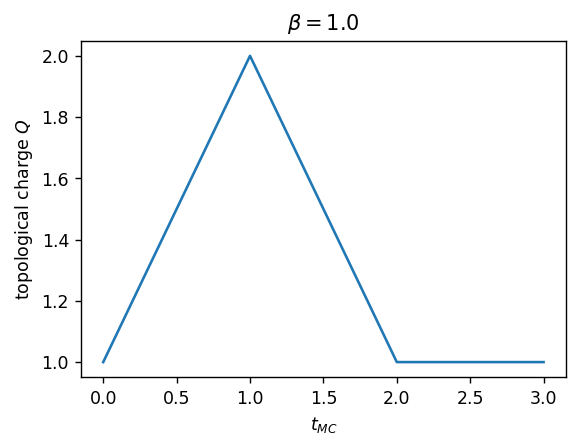
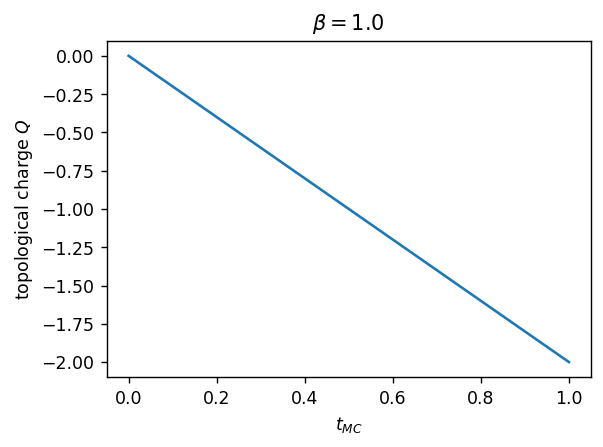
Implemented Adaptive Mixture for single batch

diff --git a/neumc/src/neumc/utils/mixture.py b/neumc/src/neumc/utils/mixture.py
@@ -8,7 +8,7 @@ import neumc.nf.prior, neumc.nf.flow, neumc.nf.flow_abc
 from torch.distributions import Categorical
 
 """
-Annotations: each samples corresponds to two LxL matrices: notice that the first one contains 
+Personal note: each sample corresponds to two LxL matrices: the first one contains 
 the horizontal links and the second one contains the vertical links. The links variables are 
 saved without taking account of the direction, as a consqeuence to compute the plaquette, the signs
 have to be considered.
@@ -19,31 +19,78 @@ def target_density(x, action) -> torch.Tensor:
     return torch.exp(- action(x))
 
 class LinksTransformation:
-    def __init__(self, config: tuple[torch.Tensor, torch.Tensor] = None, device = 'cpu'):
-        self.config = config
+    def __init__(self, shape =(8,8), device = 'cpu'):
         self.device = device
+        self.shape = shape
     def apply(self) -> tuple[torch.Tensor, torch.Tensor]:
         pass
 
-class RandomLinksTransformation(LinksTransformation):
+    def __call__(self, config):
+        return self.apply(config)
+
+class RandomLinksTransformation(LinksTransformation): #! Work in progress; 
     """Given a certain configuration (i.e. two LxL matrices), a random matrix 
     is sampled and added to the first matrix; then its transpose is added to 
     the second matrix. In such a way the plaquette is preserved.
     """
-    def __init__(self, config: tuple[torch.Tensor, torch.Tensor], device = 'cpu'):
-        super().__init__(config, device)
+    def __init__(self, shape, device = 'cpu'):
+        super().__init__(shape, device)
 
-    def transformation_matrices(self) -> tuple[torch.Tensor, torch.Tensor]:
-        m1 = torch.rand(self.config[0].shape, device=self.device) * 2 * math.pi
-        m2 = m1.transpose()
-        return m1, m2 
+    def transformation_matrices(self) -> torch.Tensor:
+        m1 = torch.rand(self.shape, device=self.device) * 2 * math.pi
+        m2 = m1.transpose(-2, -1)  # usa -2, -1 per gestire batch
+        print("random:", m1, m2)
+        return torch.stack((m1, m2))
 
-    def apply(self) -> tuple[torch.Tensor, torch.Tensor]:
-        assert len(self.config) == 2, "config must be a tuple of two tensors (cos_phi, sin_phi)"
-        m1, m2 = self.transformation_matrices()
-        return self.config[0] + m1, self.config[1] + m2
+    def apply(self, config):        
+        m = self.transformation_matrices()
+        return config + m  
 
 class AdaptiveMixture:
+    """Implements and performs sampling from an adaptive mixture."""
+    def __init__(self, *, transformations: list, action):
+        self.transformations = transformations
+        self.mix_samples = []
+        self.log_q_mix = [] #! not implemented yet;
+        self.action = action
+
+    def sample_from_mix(self, *, prior, layers: neumc.nf.flow_abc.Transformation, n_samples: int, batch_size: int) -> tuple[torch.Tensor, torch.Tensor]:
+        rem_size = n_samples
+
+        while rem_size > 0: 
+            with torch.no_grad():
+                p_a = []
+                x_a_samples = []
+                batch_length = min(rem_size, batch_size)
+                x, logq = layers.sample(prior, batch_size=batch_length)
+                for t_a in self.transformations:
+                    x_a = t_a(x)
+                    x_a_samples.append(x_a)
+                    print(x_a)
+                    p_a.append(target_density(x_a, self.action))
+
+                p_a = torch.tensor(p_a / np.sum(p_a))
+                if len(self.transformations) > 1:
+                    p_a = p_a.squeeze()
+
+                dist = Categorical(p_a) #create a categorical distribution based on the weights p_a;
+                sampled_index = dist.sample()
+
+                #!to do: with batch_size = 1 works, but there's a bug for greater values. 
+                #!review the data structure. 
+
+                x_a = x_a_samples[sampled_index]
+                
+            self.mix_samples.append(x_a.cpu()) 
+            self.log_q_mix.append(logq.cpu()) #since this trans. does not change the volume, log_q remains the same;
+            rem_size -= batch_length
+        return torch.cat(self.mix_samples, 0), torch.cat(self.log_q_mix, -1) #like u_2x1, lq_2x1 in u1_rs.py;
+
+    def __call__(self, *args, **kwargs):
+        return self.sample_from_mix(*args, **kwargs)
+
+
+class UniformMixture: #!work in progress
     """Implements and performs sampling from an adaptive mixture."""
     def __init__(self, *, transformations: list[callable], action):
         self.transformations = transformations
@@ -62,8 +109,8 @@ class AdaptiveMixture:
                 x, logq = layers.sample(prior, batch_size=batch_length)
                 for t_a in self.transformations:
                     x_a = t_a(x)
-                    p_a.append(target_density(x_a, self.action))
                     x_a_samples.append(x_a)
+                    p_a.append(target_density(x_a, self.action))
 
                 p_a = torch.tensor(p_a / np.sum(p_a))
                 if len(self.transformations) > 1:

diff --git a/scripts/u1_mix.py b/scripts/u1_mix.py
@@ -155,16 +155,20 @@ for era in range(N_era):
             um.print_dict(avg)
 
 
-#Save model weights after training
+# Save model weights after training
 print(f"\nSaving model weights to {MODEL_WEIGHTS_PATH}")
 torch.save(model["layers"].state_dict(), MODEL_WEIGHTS_PATH)
 print("Model weights saved successfully!")
 print(f"File size: {os.path.getsize(MODEL_WEIGHTS_PATH) / (1024**2):.2f} MB")
 
-link_trans = mixture.RandomLinksTransformation(device=torch_device)
-trans = [lambda x: x, link_trans]
+transformation = mixture.RandomLinksTransformation(shape=(L, L), device=torch_device)
+trans = [
+    lambda x: x,
+    transformation,
+]
+
 mix = mixture.AdaptiveMixture(transformations=trans, action=u1_action)
-u_2x1, lq_2x1 = mix(prior = prior, layers = layers, batch_size = 1, n_samples = 2**11)
+u_2x1, lq_2x1 = mix(prior=prior, layers=layers, batch_size=1, n_samples=2**11)
 
 lp_2x1 = -neumc.utils.batch_function.batch_action(
     u_2x1, batch_size=1024, action=u1_action, device=torch_device
@@ -203,7 +207,9 @@ print(
     f"F_NIS = {F_nis_2x1:.3f}+/-{F_nis_std_2x1:.4f} F_NIS-F_exact = {F_nis_2x1-F_exact:.4f}"
 )
 
-Q = grab(u1.topo_charge(u_p)) #!here plaquettes are computed internally: topo_charge calls compute_u1_plaq;
+Q = grab(
+    u1.topo_charge(u_p)
+)  #!here plaquettes are computed internally: topo_charge calls compute_u1_plaq;
 
 plt.figure(figsize=(5, 3.5), dpi=125)
 np.savetxt(f"out_u1/Q{beta}.txt", Q)
